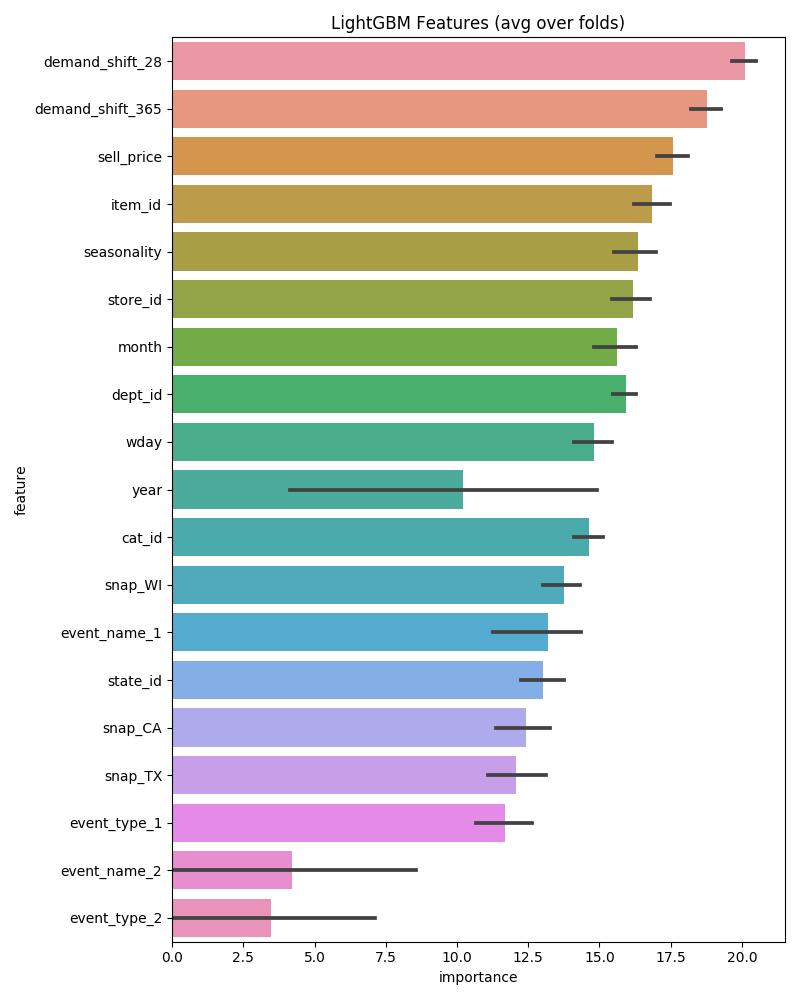
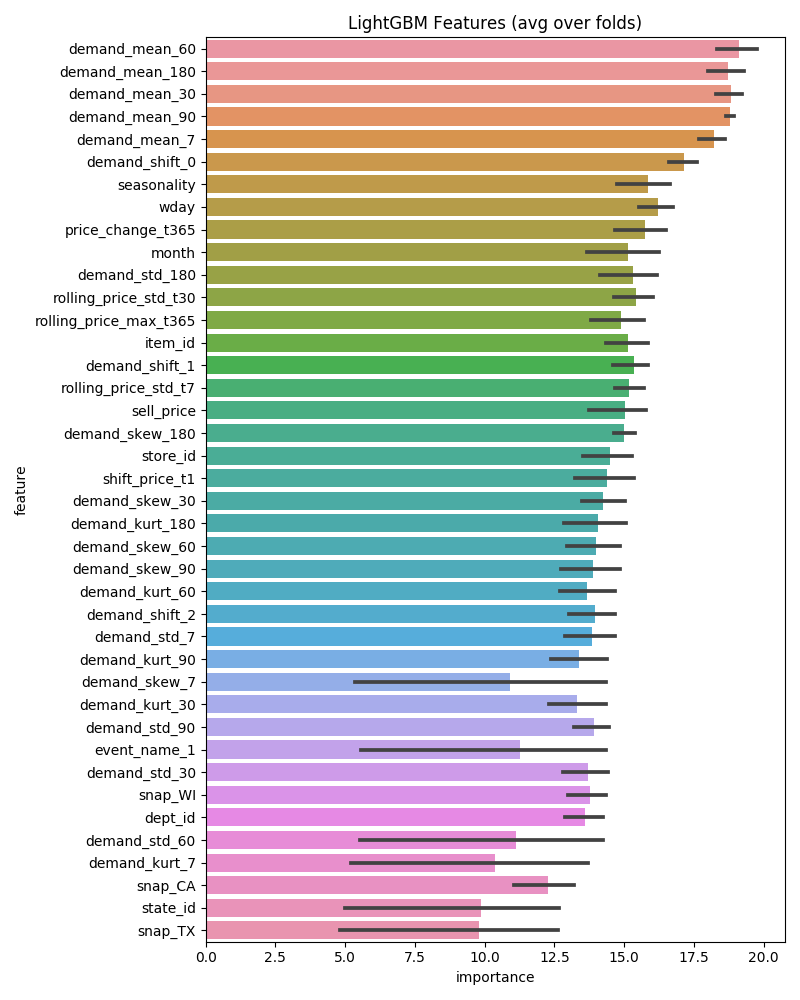
LB#5 cv:2.711822

Changed region(s): [[0.0312, 0.0, 0.9375, 0.992], [0.9062, 0.93, 0.9688, 0.961], [0.75, 0.93, 0.7812, 0.961]]

diff --git a/src/201_train_lgbm.py b/src/201_train_lgbm.py
@@ -18,7 +18,7 @@ from sklearn.model_selection import TimeSeriesSplit
 from tqdm import tqdm
 
 from utils import line_notify, to_json, rmse, save2pkl, submit
-from utils import NUM_FOLDS, FEATS_EXCLUDED, COLS_TEST1, COLS_TEST2
+from utils import NUM_FOLDS, FEATS_EXCLUDED, COLS_TEST1, COLS_TEST2, DAYS_PRED
 from utils import CustomTimeSeriesSplitter
 
 #==============================================================================
@@ -55,6 +55,8 @@ def kfold_lightgbm(train_df, test_df, num_folds, debug=False):
     # Cross validation
     folds = TimeSeriesSplit(n_splits=num_folds)
 
+#    folds = CustomTimeSeriesSplitter(n_splits=5, train_days=365*2, test_days=DAYS_PRED, day_col='d')
+
     # Create arrays and dataframes to store results
     oof_preds = np.zeros(train_df.shape[0])
     sub_preds = np.zeros(test_df.shape[0])
@@ -84,6 +86,7 @@ def kfold_lightgbm(train_df, test_df, num_folds, debug=False):
                 'metric': 'rmse',
                 'learning_rate': 0.05,
                 'max_depth': 5,
+                'max_leaves':int(.7*5** 2),
                 'colsample_bytree': 1.0,
                 'subsample': 0.9,
                 'reg_lambda': 1,
@@ -183,10 +186,18 @@ def main(debug=False):
         df = df[df['date']>'2014-04-25']
 
         # split train & test
+        #=======================================================================
+        # 2011-01-29 ~ 2016-04-24 : d_1    ~ d_1913
+        # 2016-04-25 ~ 2016-05-22 : d_1914 ~ d_1941 (public)
+        # 2016-05-23 ~ 2016-06-19 : d_1942 ~ d_1969 (private)
+        #=======================================================================
+
         train_df = df[df['date']<'2016-04-25']
         test_df = df[df['date']>='2016-04-25']
+
         del df
         gc.collect()
+
     with timer("Run LightGBM with kfold"):
         kfold_lightgbm(train_df, test_df, num_folds=NUM_FOLDS, debug=debug)
 

diff --git a/src/001_sales.py b/src/001_sales.py
@@ -76,9 +76,28 @@ def main(is_eval=False):
     print('Dropping pre-sales data...')
     df = df[df['demand']>=0]
 
-    # shifted features
-    for diff in [28, 365]:
-        df[f'demand_shift_{diff}'] = df.groupby('id').shift(diff)['demand']
+    print('Add demand features...')
+    df_grouped = df[['id','demand']].groupby(['id'])['demand']
+
+    # shifted demand
+    for diff in [0,1,2]:
+        df[f'demand_shift_{diff}'] = df_grouped.shift(DAYS_PRED+diff)
+
+    # rolling mean
+    for size in [7, 30, 60, 90, 180]:
+        df[f'demand_mean_{size}'] = df_grouped.transform(lambda x: x.shift(DAYS_PRED).rolling(size).mean())
+
+    # rolling std
+    for size in [7, 30, 60, 90, 180]:
+        df[f'demand_std_{size}'] = df_grouped.transform(lambda x: x.shift(DAYS_PRED).rolling(size).std())
+
+    # rolling skew
+    for size in [7, 30, 60, 90, 180]:
+        df[f'demand_skew_{size}'] = df_grouped.transform(lambda x: x.shift(DAYS_PRED).rolling(size).skew())
+
+    # rolling kurt
+    for size in [7, 30, 60, 90, 180]:
+        df[f'demand_kurt_{size}'] = df_grouped.transform(lambda x: x.shift(DAYS_PRED).rolling(size).kurt())
 
     # save pkl
     save2pkl('../feats/sales.pkl', df)

diff --git a/src/101_aggregation.py b/src/101_aggregation.py
@@ -35,6 +35,15 @@ def main():
         df[c], _ = pd.factorize(df[c])
         df[c].replace(-1,np.nan,inplace=True)
 
+    # add price features
+    df_grouped = df[['id','sell_price']].groupby('id')['sell_price']
+    df['shift_price_t1'] = df_grouped.transform(lambda x: x.shift(1))
+    df['price_change_t1'] = (df['shift_price_t1'] - df['sell_price']) / (df['shift_price_t1'])
+    df['rolling_price_max_t365'] = df_grouped.transform(lambda x: x.shift(1).rolling(365).max())
+    df['price_change_t365'] = (df['rolling_price_max_t365'] - df['sell_price']) / (df['rolling_price_max_t365'])
+    df['rolling_price_std_t7'] = df_grouped.transform(lambda x: x.rolling(7).std())
+    df['rolling_price_std_t30'] = df_grouped.transform(lambda x: x.rolling(30).std())
+
     # reduce memory usage
     df = reduce_mem_usage(df)
 
